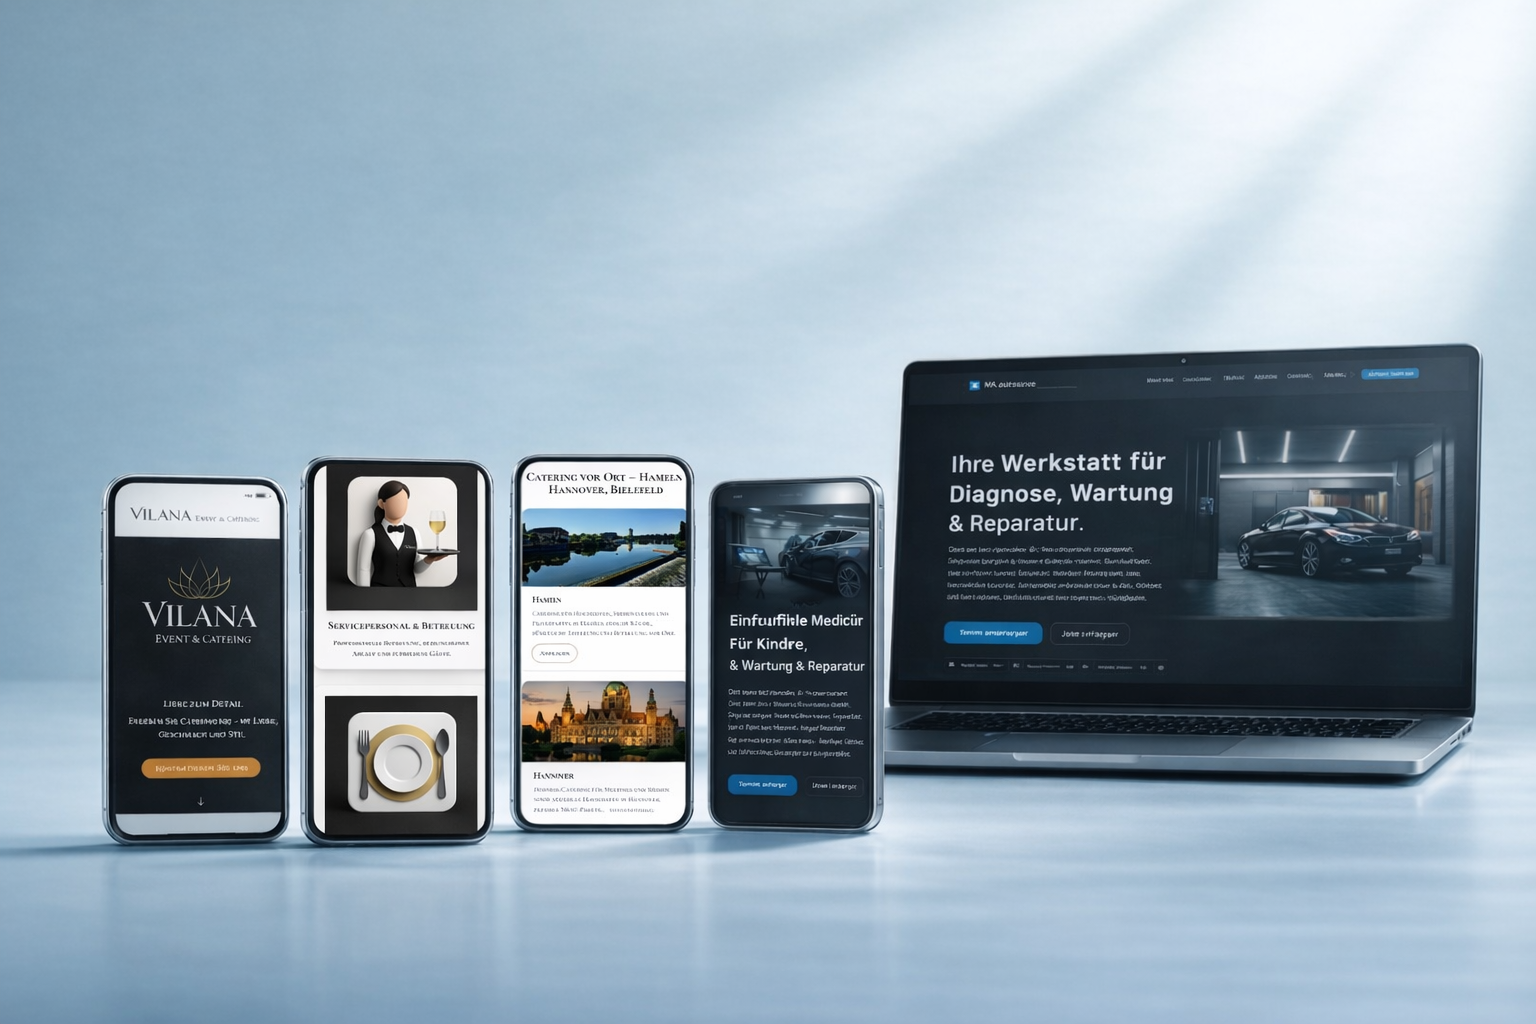
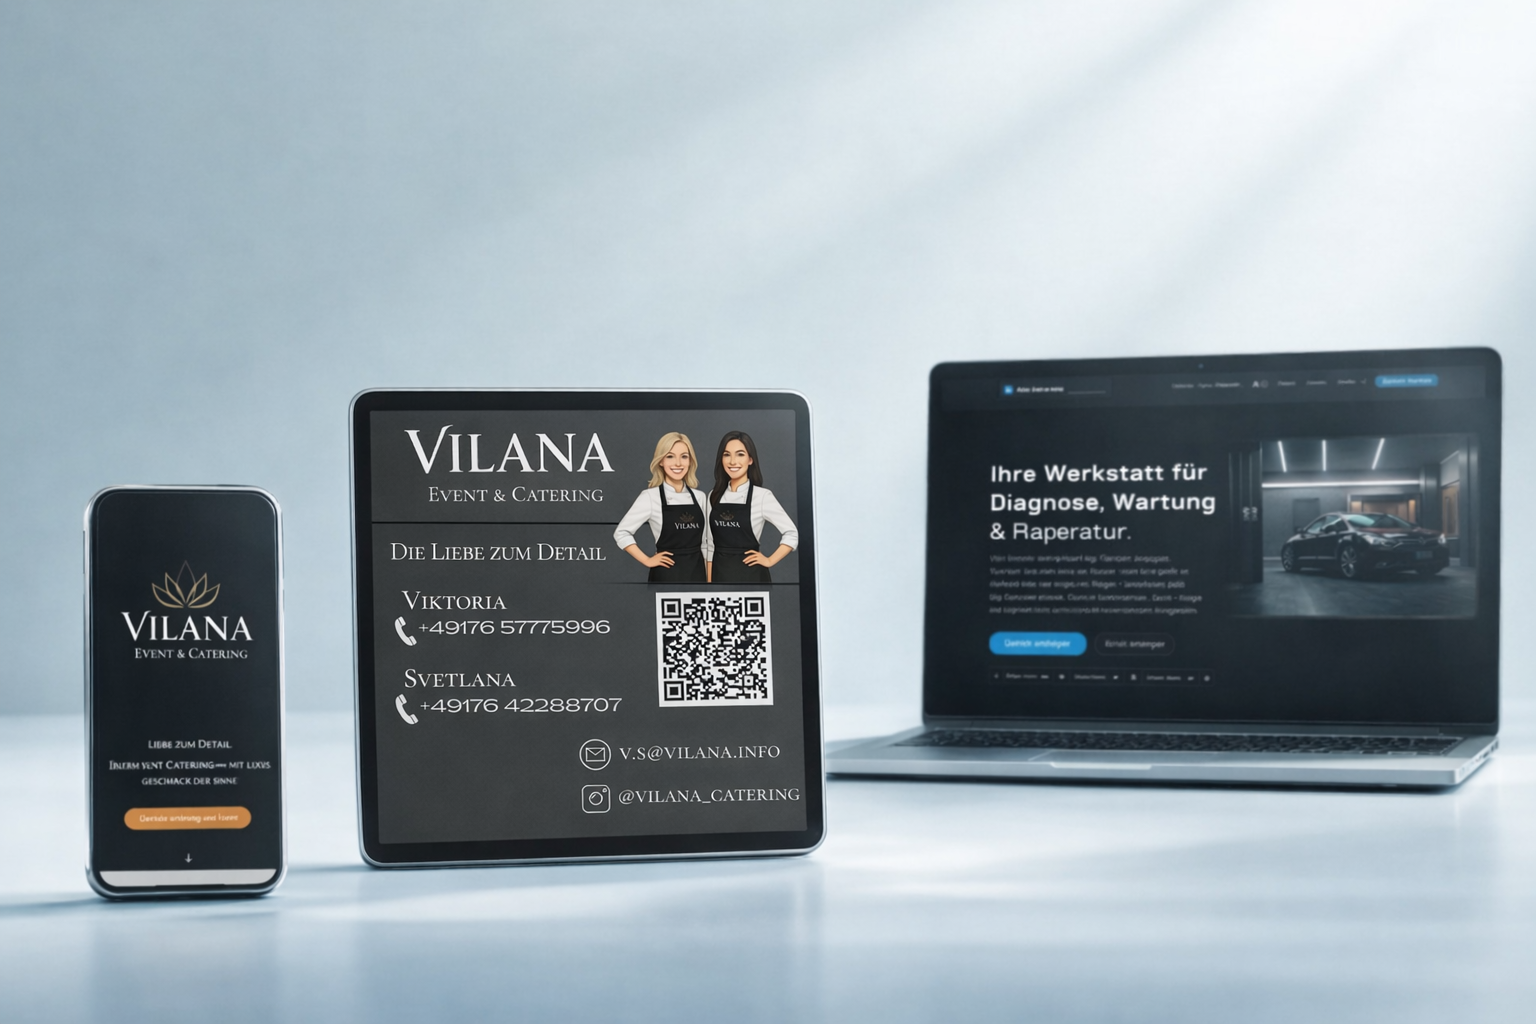
Refactor code structure for improved readability and maintainability

diff --git a/projekte.html b/projekte.html
@@ -86,7 +86,7 @@
         <section class="hero-card" aria-label="Portfolio Hero">
             <!-- TOP: Visual -->
             <div class="hero-card__media" aria-hidden="true">
-                <img src="images/projekte.webp" alt="" class="hero-card__img" loading="eager" decoding="async"
+                <img src="images/projekte2.webp" alt="" class="hero-card__img" loading="eager" decoding="async"
                     fetchpriority="high" />
             </div>
 
